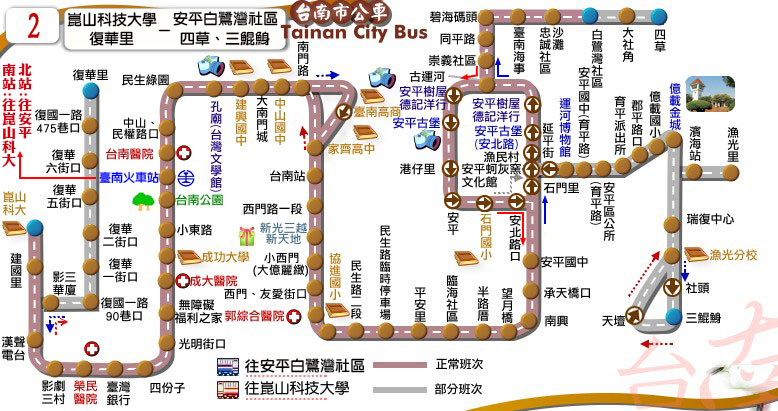
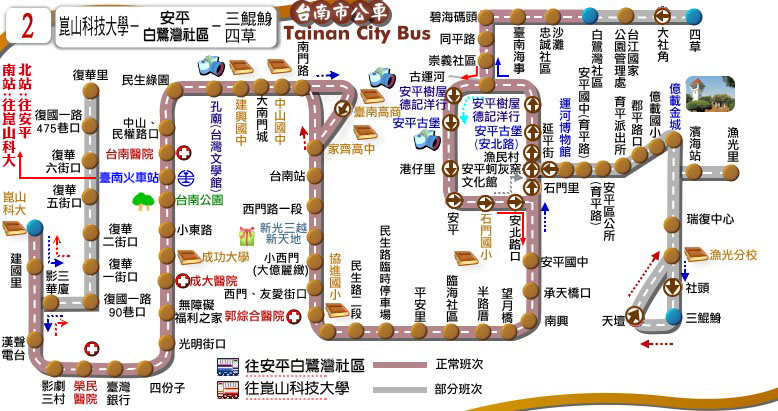
更新時刻表：2路(原復華里為起訖點班次，改為崑山科大-白鷺灣社區[經復華里]；06:25三鯤鯓發車班次改由崇義社區折返，其餘由白鷺灣社區折返；新增「台江國家公園管理處」站位)

diff --git a/route/fare_and_time/city_bus_2.js b/route/fare_and_time/city_bus_2.js
@@ -1,78 +1,38 @@
 // format = [time at the start stop] or
 // [time, other] or
 // [time, start_stop, end_stop, other]
-city_bus_2_interval_stop = [
-["復華里","復國一路475巷口","復華六街口","復華五街口","復華二街口","復華一街口","復國一路90巷口","影三華廈",
-"崑山科技大學","建國里","漢聲電台","影劇三村","榮民醫院","台灣銀行","四份子","光明街口","無障礙之家","成大醫院(小東路)",
-"成功大學","小東路","臺南公園(北門路)","臺南火車站","臺南醫院","中山、民權路口","孔廟(台灣文學館)","建興國中(南門路)",
-"大南門城","觀光協會","南門路","台南高商","家齊女中","台南站","西門路一段","新光三越新天地","小西門(大億麗緻)",
-"西門、友愛街口","郭綜合醫院","協進國小(民生路)","民生路二段","交通隊","平安里","臨海社區","半路厝","望月橋","南興",
-"承天橋口","安平國中","石門里","安平蚵灰窯文化館","漁民村","安平古堡(安北路)","德記洋行、安平樹屋","崇義社區","同平路",
-"觀光魚市場(碧海碼頭)","沙灘忠誠社區","白鷺灣社區","大社角","四草","德記洋行、安平樹屋(850巷)","安平古堡(安平路)","港仔里",
-"運河博物館","安平國中(育平路)","安平區公所(育平路)","育平派出所","郡平路口","億載國小","億載金城","濱海站","漁光里",
-"瑞復中心","漁光分校","社頭","三鯤鯓","天壇","延平街","安平","石門國小","安北路口","民生綠園"]
-];
-
-city_bus_2_main_stop_name = ["復華里","崑山<br />科大","四份子","臺南<br />火車站","孔廟(台灣<br />文學館)","新光三越<br />新天地","安平<br />古堡","白鷺灣<br />社區","四草","億載<br />金城","三鯤鯓"];
-city_bus_2_main_stop_time_consume = [0, 0, 5, 20, 25, 35, 50, 55, 62, 75, 80];
-city_bus_2_important_stop = [1, 3, 6]; // 崑山科大, 臺南火車站, 安平古堡
-stop_1 = 1; // 崑山科技大學
-stop_2 = 0; // 復華里
-stop_3 = 7; // 白鷺灣社區
-stop_4 = 8; // 四草
-stop_5 = 10; // 三鯤鯓
+city_bus_2_main_stop_name = ["崑山<br />科大","復華里","四份子","臺南<br />火車站","孔廟(台灣<br />文學館)","新光三越<br />新天地","安平<br />古堡","崇義社區","白鷺灣<br />社區","四草<br /><span style='color: blue;'>(平日延駛)</span>","億載<br />金城","三鯤鯓"];
+city_bus_2_main_stop_time_consume = [0, 5, 5, 20, 27, 35, 50, 53, 55, 62, 75, 80];
+city_bus_2_important_stop = [0, 3, 6, 8]; // 崑山科大, 臺南火車站, 安平古堡, 白鷺灣社區
+stop_1 = 0; // 崑山科技大學
+stop_2 = 1; // 復華里
+stop_3 = 8; // 白鷺灣社區
+stop_4 = 9; // 四草
+stop_5 = 11; // 三鯤鯓
 stop_6 = 5; // 新光三越新天地
 stop_7 = 3; // 臺南火車站
-
-city_bus_2_time_go = [["06:15",stop_1,stop_3,[[stop_7,-5]]],["06:25",stop_1,stop_3,['L',[stop_6,5]]],["06:40",stop_1,stop_3,[[stop_6,10]]],
-["06:55",stop_1,stop_3,[[stop_6,5]]],["07:35",stop_1,stop_4],["08:00",stop_1,stop_5,[stop_4]],["08:35",stop_1,stop_3],
-["09:10",stop_1,stop_3,['L']],["09:30",stop_2,stop_3,[stop_1]],["09:50",stop_1,stop_3],["10:20",stop_1,stop_3],
-["10:50",stop_1,stop_5,[stop_4]],["11:10",stop_1,stop_3,['L']],["11:30",stop_1,stop_3],["11:50",stop_1,stop_4,['L']],
-["12:10",stop_1,stop_5,[stop_4]],["12:30",stop_1,stop_3,['L']],["12:50",stop_2,stop_3,[stop_1]],["13:10",stop_1,stop_3],
-["13:30",stop_1,stop_3],["13:50",stop_1,stop_3],["14:10",stop_1,stop_3],["14:30",stop_1,stop_3,['L']],["14:50",stop_1,stop_3],
-["15:10",stop_1,stop_3,['L']],["15:30",stop_1,stop_3],["15:50",stop_1,stop_3,['L']],["16:10",stop_2,stop_3,[stop_1]],
-["16:30",stop_1,stop_3],["16:45",stop_1,stop_5,[stop_4]],["17:00",stop_1,stop_4],["17:15",stop_1,stop_5,['L',stop_4,[stop_6,5]]],
-["17:30",stop_1,stop_3],["17:45",stop_1,stop_3],["18:00",stop_1,stop_3,['L']],["18:20",stop_1,stop_3],
-["19:00",stop_1,stop_3,['L']],["19:40",stop_1,stop_3],["20:20",stop_1,stop_3],["21:00",stop_1,stop_4,['L',[stop_7,-5]]],
-["21:20",stop_1,stop_3,['L',[stop_7,-5]]],["22:05",stop_1,stop_3,[[stop_7,-5]]]
+city_bus_2_time_go = [["06:15",stop_1,stop_3,[stop_2,[stop_7,-5]]],["06:25",stop_1,stop_3,[stop_2,'L',[stop_6,5]]],["06:40",stop_1,stop_3,[stop_2,[stop_6,10]]],
+["06:55",stop_1,stop_3,[stop_2,[stop_6,5]]],["07:35",stop_1,stop_4,[stop_2]],["08:00",stop_1,stop_5,[stop_2,stop_4]],["08:35",stop_1,stop_3,[stop_2]],
+["09:10",stop_1,stop_3,['L',stop_2]],["09:25",stop_1,stop_3,[[stop_2+1,5]]],["09:50",stop_1,stop_3,[stop_2]],["10:20",stop_1,stop_3,[stop_2]],
+["10:50",stop_1,stop_5,[stop_2,stop_4]],["11:10",stop_1,stop_3,[stop_2,'L']],["11:30",stop_1,stop_3,[stop_2]],["11:50",stop_1,stop_4,['L',stop_2]],
+["12:10",stop_1,stop_5,[stop_2,stop_4]],["12:30",stop_1,stop_3,[stop_2,'L']],["12:45",stop_1,stop_3,[[stop_2+1,5]]],["13:10",stop_1,stop_3,[stop_2]],
+["13:30",stop_1,stop_3,[stop_2]],["13:50",stop_1,stop_3,['L',stop_2]],["14:10",stop_1,stop_3,[stop_2]],["14:30",stop_1,stop_3,[stop_2]],["14:50",stop_1,stop_3,[stop_2]],
+["15:10",stop_1,stop_3,['L',stop_2]],["15:30",stop_1,stop_3,[stop_2]],["15:50",stop_1,stop_3,[stop_2,'L']],["16:05",stop_1,stop_3,[[stop_2+1,5]]],
+["16:30",stop_1,stop_3,[stop_2]],["16:45",stop_1,stop_5,[stop_2,stop_4]],["17:00",stop_1,stop_4,[stop_2]],["17:15",stop_1,stop_5,['L',stop_2,stop_4,[stop_6,5]]],
+["17:30",stop_1,stop_3,[stop_2]],["17:45",stop_1,stop_3,[stop_2]],["18:00",stop_1,stop_3,['L',stop_2]],["18:20",stop_1,stop_3,[stop_2]],
+["19:00",stop_1,stop_3,[stop_2]],["19:40",stop_1,stop_3,[stop_2]],["20:20",stop_1,stop_3,[stop_2]],["21:00",stop_1,stop_4,[stop_2,[stop_7,-5]]],
+["21:20",stop_1,stop_3,['L',stop_2,[stop_7,-5]]],["22:05",stop_1,stop_3,[stop_2,[stop_7,-5]]]
 ];
-city_bus_2_time_return = [["06:00",stop_3,stop_1,[[stop_6,-2,stop_6-1,-3]]],["06:25",stop_3,stop_1,[[stop_6,-2,stop_6-1,-3]]],
-["06:27",stop_4,stop_1,[[stop_3,1]]],["06:25",stop_5,stop_1,[stop_4,[stop_3,5]]],["07:30",stop_3,stop_2,[stop_1]],
-["07:55",stop_3,stop_1,['L']],["08:20",stop_3,stop_1],["08:40",stop_4,stop_1,[[stop_3,3]]],["09:20",stop_3,stop_1],
-["09:25",stop_5,stop_1,[stop_4]],["10:10",stop_3,stop_1,['L']],["10:30",stop_3,stop_1],["10:50",stop_3,stop_1,['L']],
-["11:10",stop_3,stop_2,[stop_1]],["11:30",stop_3,stop_1],["11:50",stop_3,stop_1,['L']],["12:10",stop_3,stop_1],
-["12:05",stop_5,stop_1,[stop_4]],["12:50",stop_3,stop_1,['L']],["13:03",stop_4,stop_1],["13:30",stop_3,stop_1],
-["13:25",stop_5,stop_1,[stop_4]],["14:10",stop_3,stop_1,['L']],["14:30",stop_3,stop_2,[stop_1]],["14:50",stop_3,stop_1],
-["15:10",stop_3,stop_1],["15:30",stop_3,stop_1],["15:50",stop_3,stop_1,['L']],["16:10",stop_3,stop_1],["16:30",stop_3,stop_1],
-["16:45",stop_3,stop_1,['L',[stop_6-1,5]]],["17:00",stop_3,stop_1,[[stop_6-1,5]]],["17:15",stop_3,stop_1,['L',[stop_6-1,5]]],
-["17:35",stop_3,stop_1,[[stop_6-1,5]]],["17:55",stop_3,stop_1],["18:00",stop_5,stop_1,[stop_4]],["18:38",stop_4,stop_1,[[stop_6,-2,stop_6-1,-3]]],
-["18:45",stop_5,stop_1,['L',stop_4,[stop_6,-2,stop_6-1,-3]]],["19:50",stop_3,stop_1,['L',[stop_6,-2,stop_6-1,-3]]],["20:25",stop_3,stop_1,[[stop_6,-2,stop_6-1,-3]]],
-["21:10",stop_3,stop_2,[stop_1,[stop_6,-2,stop_6-1,-3]]],["22:00",stop_4,stop_1,['L',[stop_3,-2,stop_6,-2,stop_6-1,-3]]]
-];
-
-// holiday schedule
-city_bus_2_holiday_time_go = [["06:15",stop_1,stop_3,[[stop_7,-5]]],["06:25",stop_1,stop_3,['L']],["06:40",stop_1,stop_3],
-["07:00",stop_1,stop_3,[[stop_7,-5]]],["07:35",stop_1,stop_3],["08:00",stop_1,stop_5,[stop_4]],["08:35",stop_1,stop_3],
-["09:10",stop_1,stop_3,['L']],["09:30",stop_2,stop_3,[stop_1]],["09:50",stop_1,stop_3],["10:20",stop_1,stop_3],
-["10:50",stop_1,stop_5,[stop_4]],["11:10",stop_1,stop_3,['L']],["11:30",stop_1,stop_3],["11:50",stop_1,stop_3,['L']],
-["12:10",stop_1,stop_5,[stop_4]],["12:30",stop_1,stop_3,['L']],["12:50",stop_2,stop_3,[stop_1]],["13:10",stop_1,stop_3],
-["13:30",stop_1,stop_3],["13:50",stop_1,stop_3],["14:10",stop_1,stop_3],["14:30",stop_1,stop_3,['L']],["14:50",stop_1,stop_3],
-["15:10",stop_1,stop_3,['L']],["15:30",stop_1,stop_3],["15:50",stop_1,stop_3,['L']],["16:10",stop_2,stop_3,[stop_1]],
-["16:30",stop_1,stop_3],["16:45",stop_1,stop_5,[stop_4]],["17:00",stop_1,stop_3],["17:15",stop_1,stop_5,['L',stop_4]],
-["17:30",stop_1,stop_3],["17:45",stop_1,stop_3],["18:00",stop_1,stop_3,['L']],["18:20",stop_1,stop_3],
-["19:00",stop_1,stop_3,['L']],["19:40",stop_1,stop_3],["20:20",stop_1,stop_3],["21:00",stop_1,stop_3,['L',[stop_7,-5]]],
-["21:20",stop_1,stop_3,['L',[stop_7,-5]]],["22:05",stop_1,stop_3,[[stop_7,-5]]]
-];
-city_bus_2_holiday_time_return = [["06:00",stop_3,stop_1,[[stop_6,-2,stop_6-1,-3]]],["06:25",stop_3,stop_1,[[stop_6,-2,stop_6-1,-3]]],
-["06:35",stop_3,stop_1],["06:25",stop_5,stop_1,[stop_4,[stop_3,5]]],["07:30",stop_3,stop_2,[stop_1]],["07:55",stop_3,stop_1,['L']],
-["08:20",stop_3,stop_1],["08:50",stop_3,stop_1],["09:20",stop_3,stop_1],["09:25",stop_5,stop_1,[stop_4]],
-["10:10",stop_3,stop_1,['L']],["10:30",stop_3,stop_1],["10:50",stop_3,stop_1,['L']],["11:10",stop_3,stop_2,[stop_1]],
-["11:30",stop_3,stop_1],["11:50",stop_3,stop_1,['L']],["12:10",stop_3,stop_1],["12:05",stop_5,stop_1,[stop_4]],
-["12:50",stop_3,stop_1,['L']],["13:10",stop_3,stop_1,['L']],["13:30",stop_3,stop_1],["13:25",stop_5,stop_1,[stop_4]],
-["14:10",stop_3,stop_1,['L']],["14:30",stop_3,stop_2,[stop_1]],["14:50",stop_3,stop_1],["15:10",stop_3,stop_1],
-["15:30",stop_3,stop_1],["15:50",stop_3,stop_1,['L']],["16:10",stop_3,stop_1],["16:30",stop_3,stop_1],
-["16:45",stop_3,stop_1,['L',[stop_6-1,5]]],["17:00",stop_3,stop_1,[[stop_6-1,5]]],["17:15",stop_3,stop_1,['L',[stop_6-1,5]]],
-["17:35",stop_3,stop_1,[[stop_6-1,5]]],["17:55",stop_3,stop_1],["18:00",stop_5,stop_1,[stop_4]],
-["18:45",stop_3,stop_1,[[stop_6,-2,stop_6-1,-3]]],["18:45",stop_5,stop_1,['L',stop_4,[stop_6,-2,stop_6-1,-3]]],["19:50",stop_3,stop_1,['L',[stop_6,-2,stop_6-1,-3]]],
-["20:25",stop_3,stop_1,[[stop_6,-2,stop_6-1,-3]]],["21:10",stop_3,stop_2,[stop_1,[stop_6,-2,stop_6-1,-3]]],["22:05",stop_3,stop_1,['L',[stop_6,-2,stop_6-1,-3]]]
+city_bus_2_time_return = [["06:00",stop_3,stop_1,[stop_2,[stop_6,-2,stop_6-1,-3]]],["06:25",stop_3,stop_1,[stop_2,[stop_6,-2,stop_6-1,-3]]],
+["06:27",stop_4,stop_1,[stop_2,[stop_3,1]]],["06:25",stop_5,stop_1,["崇",stop_2,stop_3,stop_4,[stop_7,5]]],["07:30",stop_3,stop_1,[[stop_2,5]]],
+["07:55",stop_3,stop_1,['L',stop_2]],["08:20",stop_3,stop_1,[stop_2]],["08:40",stop_4,stop_1,[stop_2,[stop_3,3]]],["09:20",stop_3,stop_1,[stop_2]],
+["09:25",stop_5,stop_1,[stop_2,stop_4]],["10:10",stop_3,stop_1,['L',stop_2]],["10:30",stop_3,stop_1,[stop_2]],["10:50",stop_3,stop_1,['L',stop_2]],
+["11:10",stop_3,stop_1,[[stop_2,5]]],["11:30",stop_3,stop_1,[stop_2]],["11:50",stop_3,stop_1,[stop_2]],["12:10",stop_3,stop_1,['L',stop_2]],
+["12:05",stop_5,stop_1,[stop_2,stop_4]],["12:50",stop_3,stop_1,['L',stop_2]],["13:03",stop_4,stop_1,['L',stop_2]],["13:30",stop_3,stop_1,[stop_2]],
+["13:25",stop_5,stop_1,[stop_2,stop_4]],["14:10",stop_3,stop_1,['L',stop_2]],["14:30",stop_3,stop_1,[[stop_2,5]]],["14:50",stop_3,stop_1,[stop_2]],
+["15:10",stop_3,stop_1,[stop_2]],["15:30",stop_3,stop_1,[stop_2]],["15:50",stop_3,stop_1,['L',stop_2]],["16:10",stop_3,stop_1,[stop_2]],["16:30",stop_3,stop_1,[stop_2]],
+["16:45",stop_3,stop_1,['L',stop_2,[stop_6-1,5]]],["17:00",stop_3,stop_1,[stop_2,[stop_6-1,5]]],["17:15",stop_3,stop_1,['L',stop_2,[stop_6-1,5]]],
+["17:35",stop_3,stop_1,[stop_2,[stop_6-1,5]]],["17:55",stop_3,stop_1,[stop_2]],["18:00",stop_5,stop_1,[stop_2,stop_4]],["18:38",stop_4,stop_1,[stop_2,[stop_6,-2,stop_6-1,-3]]],
+["18:45",stop_5,stop_1,['L',stop_2,stop_4,[stop_6,-2,stop_6-1,-3]]],["19:50",stop_3,stop_1,['L',stop_2,[stop_6,-2,stop_6-1,-3]]],["20:25",stop_3,stop_1,[stop_2,[stop_6,-2,stop_6-1,-3]]],
+["21:10",stop_3,stop_1,[[stop_2,5,stop_6,-2,stop_6-1,-3]]],["22:00",stop_4,stop_1,['L',stop_2,[stop_3,-2,stop_6,-2,stop_6-1,-3]]]
 ];

diff --git a/urban/2.html b/urban/2.html
@@ -8,10 +8,7 @@
 	route_file_name = 'city_bus_2';
 	route_type = 'city_bus';
 	route_interval = ['崑山科大','安平白鷺灣社區'];
-	route_start_stop = '崑山科大/復華里';
-	route_end_stop = '白鷺灣社區/四草/三鯤鯓';
 </script>
-<link href="../css/radio_style.css" rel="stylesheet" />
 <script src="../tools/web_model.js"></script> 
 <script type="text/javascript">
 	header_code();
@@ -21,9 +18,11 @@
 <script type="text/javascript">
 	block_header();
 	block_route_map(null);
-	block_route_info(route_interval,'府城客運','尖15離20~40','一段票','http://www.2384.com.tw/ebus/jsp/ajaxBus.jsp?pathId=10162&locale=zh_TW',[['平日','normal'],['假日','holiday']]);
+	block_route_info(route_interval,'府城客運','尖15離20~40','一段票','http://www.2384.com.tw/ebus/jsp/ajaxBus.jsp?pathId=10162&locale=zh_TW');
 	block_fare(1, null);
-	block_multiple_time_schedule( [['平日班表','normal'],['假日班表','holiday']], L_message+'<p><font color="blue">四草發車班次寒暑假不延駛，改由白鷺灣社區發車</font></p>');
+	block_time_schedule('崑山科大','白鷺灣社區/四草/三鯤鯓','<p>'+L_message+'<br />延駛四草班次僅於平日行駛，假日、寒暑假不延駛四草，改由白鷺灣社區發車<br />「<span style="color: blue;">崇</span>」表示此班由崇義社區折返，其餘延駛三鯤鯓班次由白鷺灣社區折返</p>');
+	route_start_stop = '崑山科大';
+	route_end_stop = '白鷺灣社區/四草/三鯤鯓';
 	block_transfer(transfer_kun_shan_university + transfer_tainan_railway_station);
 	block_copyright();
 </script>
